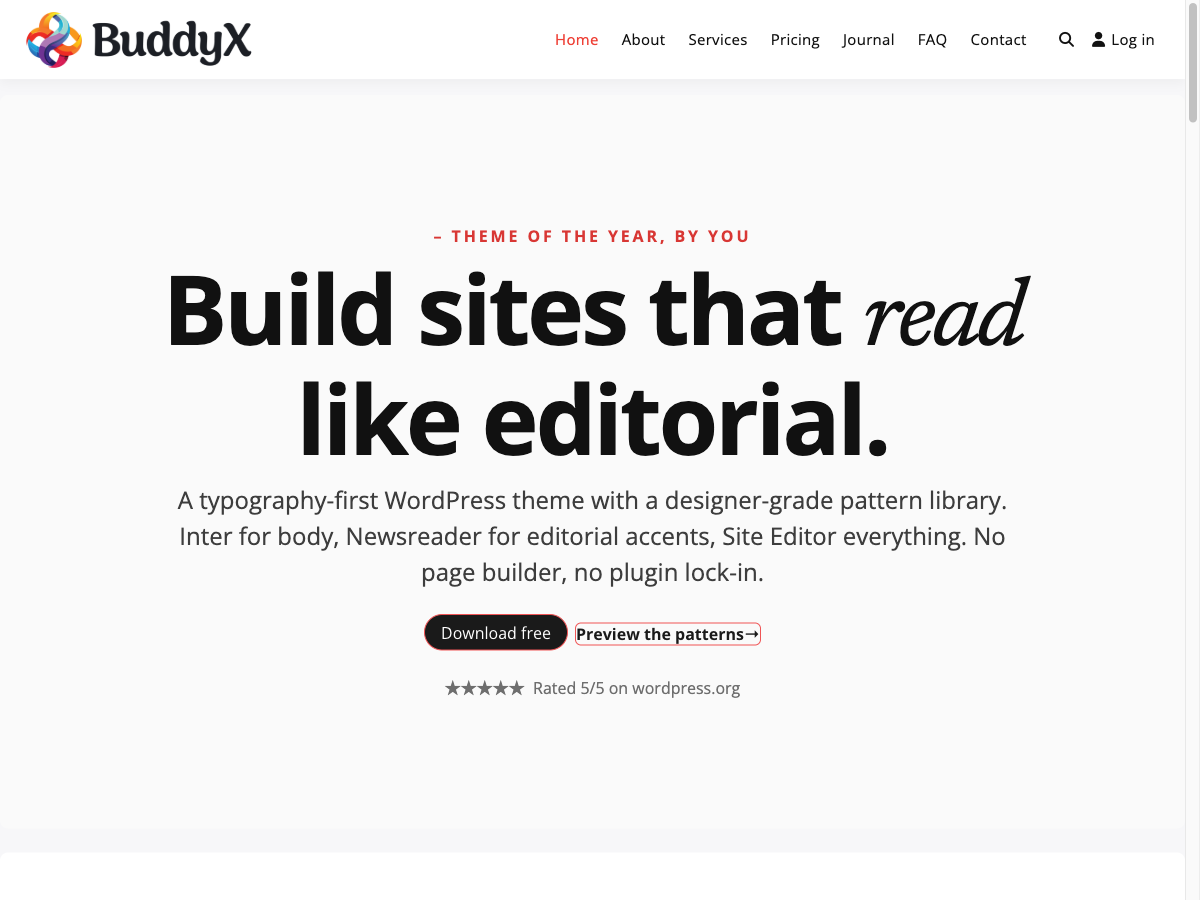
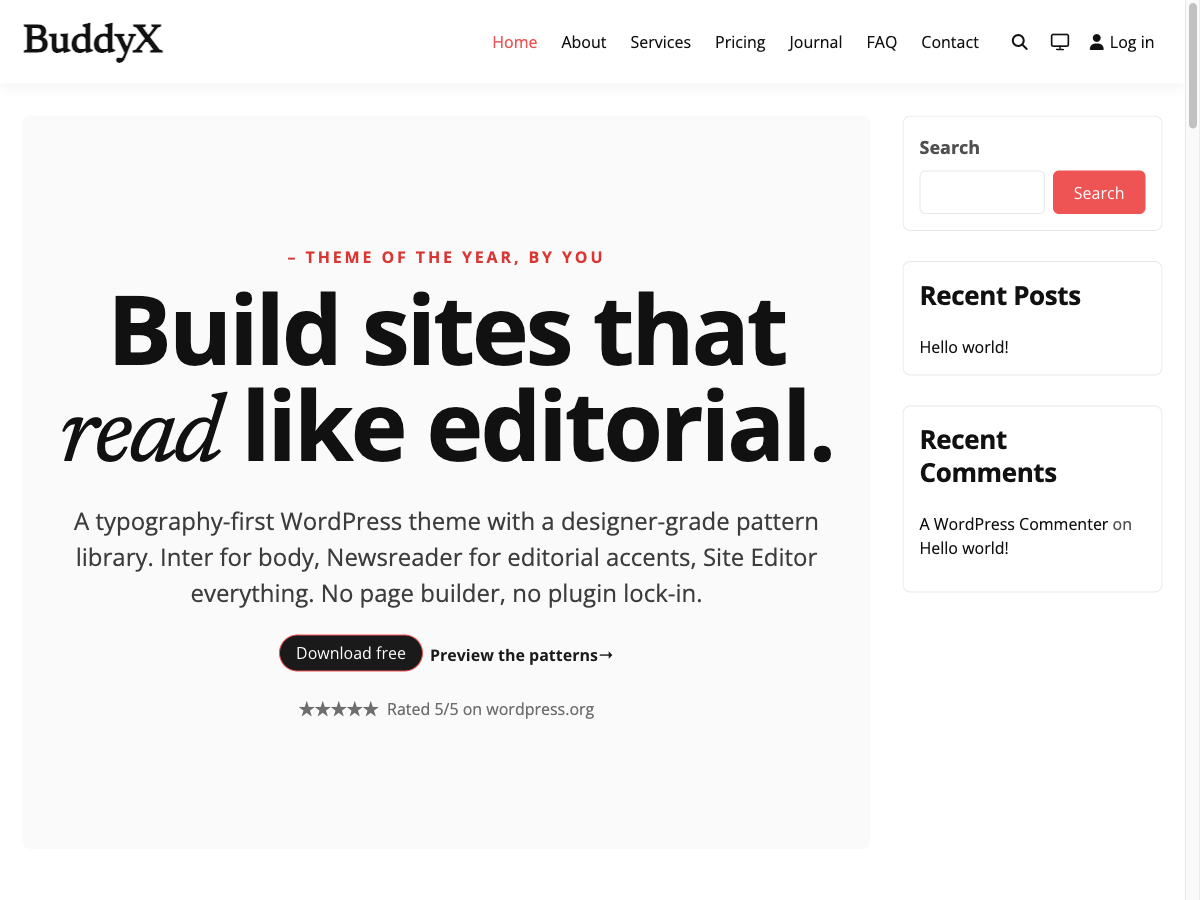
fix(skin): is-style-link-arrow button — drop border + re-capture screenshot
The `link-arrow` block style (registered in inc/Base_Support/block-styles.php)
is used across the pattern library for secondary CTAs that should look
like a styled text link with arrow indicator (e.g. "Preview the patterns",
"See the type spec", "Read the docs", "See the pattern library", "Read
the design manifesto", "Still curious? Talk to us"). The CSS rule in
_blocks-style.css set `background: transparent` and `padding: 0` but
never reset the border — so the inherited 1px brand-color border from
the base `.wp-block-button__link` rule (and bx-tokens-applied.css's
button-border token) leaked through, rendering link-arrow CTAs as
solid bordered buttons.

Add `border: none` + `border-radius: 0` + `min-width: 0` to fully
override the base button chrome. Also wire the hover/focus state so
keyboard users get a visible color shift instead of the inherited
brand button hover BG.

Re-captured `screenshot.png` (1200×900, logged-out) to update the WP
admin theme card with the corrected hero CTA. Per Wbcom positioning,
the theme screenshot represents BuddyX as a general typography-first
theme (Hero "Build sites that read like editorial", Inter/Newsreader
type spec, Download free + Preview the patterns CTAs), not a BP-only
theme — that positioning is unchanged from the prior 2026-05-04 capture
(commit 63b6dd1), only the button visual is fixed.

Closes Basecamp card 9856727855.

diff --git a/assets/css/src/_blocks-style.css b/assets/css/src/_blocks-style.css
@@ -66,6 +66,22 @@
 	color: var(--wp--preset--color--contrast);
 	padding: 0;
 	font-weight: 600;
+	/* `border: none` is required because the base .wp-block-button__link
+	 * rule (and our brand button-border token) apply a 1px border. Without
+	 * resetting it here the link-arrow style renders as a solid button
+	 * with brand-color border instead of a styled text link with arrow,
+	 * which is what the pattern library expects (Hero CTA secondary,
+	 * features alternating "See the type spec", etc.). */
+	border: none;
+	border-radius: 0;
+	min-width: 0;
+}
+
+.wp-block-button.is-style-link-arrow .wp-block-button__link:hover,
+.wp-block-button.is-style-link-arrow .wp-block-button__link:focus {
+	background: transparent;
+	border: none;
+	color: var(--wp--preset--color--primary, var(--wp--preset--color--contrast));
 }
 
 .wp-block-button.is-style-link-arrow .wp-block-button__link::after {